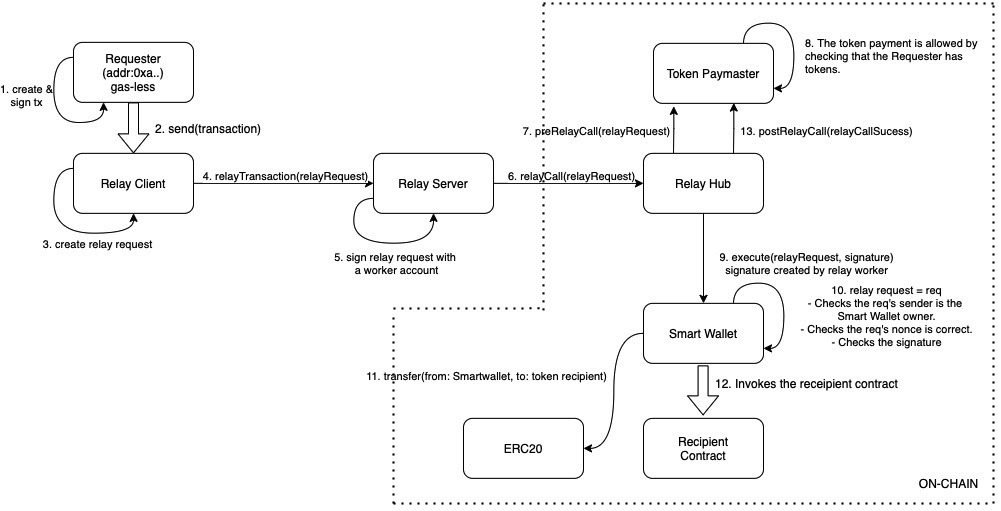
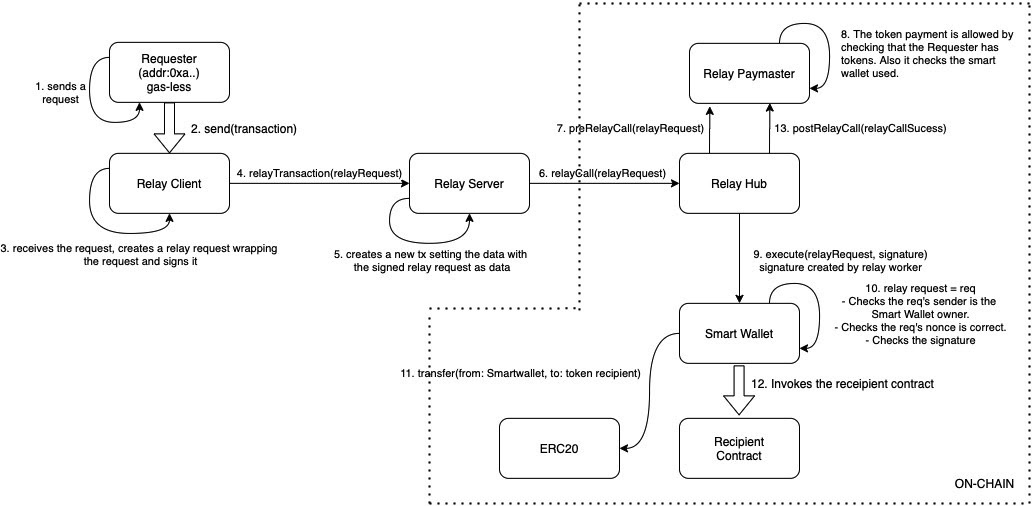
ch: applied suggestions to review

diff --git a/rif/enveloping.md b/rif/enveloping.md
@@ -1,6 +1,6 @@
 ---
 layout: rsk
-title: Enveloping
+title: RIF Enveloping
 tags: rif, enveloping, rsk, envelope, gas station network, gsn
 description: "RIF Enveloping provides the RSK ecosystem with the means to allow blockchain applications and end-users (wallet-apps) to transact without needing RBTC."
 ---
@@ -9,13 +9,9 @@ RIF Enveloping provides the RSK ecosystem with the means to allow blockchain app
 
 ## Goals
 
-Most blockchains have native tokens to pay for transaction fees. This simple design has many benefits. First, to bootstrap an economy, the native token model creates an initial demand for a new token. Second, it simplifies the interaction between users and miners because it forces them to use the same means of payment. Third, it reduces the complexity of the consensus rules. Finally, it provides Denial of Service (DoS) protection to the network as full nodes can pay what the miners expect to include a received transaction. This way nodes can decide to propagate a transaction or not, preventing the free consumption of network bandwidth, and stop spam transactions.
+Most blockchains have native tokens to pay for transaction fees. This simple design has many benefits. First, to bootstrap an economy, the native token model creates an initial demand for a new token. Second, it simplifies the interaction between users and miners because it forces them to use the same means of payment. Third, it reduces the complexity of the consensus rules. Finally, it provides Denial of Service (DoS) protection to the network as full nodes can pay what the miners expect to include a received transaction. This way nodes can decide to propagate a transaction or not, preventing the free consumption of network bandwidth, and stop spam transactions. But with the advent of Decentralized Finance (DeFi), several stablecoins have become a preferred means of payment and savings for both users and miners, therefore, separate systems to facilitate alternative payment mechanisms. Transactions that enable paying transactions with any coin other than the native currency are named meta-transactions because in some systems the user transaction is embedded in a higher-level (or meta) transaction created by a third party. A more figurable term for these transactions is “envelopes” or, for the whole system, an Enveloping system. A meta-transaction/enveloping system can serve at least two different use cases: 1) pay the transaction fees with tokens, where one new party receives the tokens (from the user) and pays the gas on behalf of the user, and 2) enable smart contract developers to subsidize the gas used to interact with their contracts. 
 
-With the advent of Decentralized Finance (DeFi), several stablecoins have become a preferred means of payment and savings for both users and miners, therefore, separate systems to facilitate alternative payment mechanisms. Transactions that enable paying transactions with any coin other than the native currency are named meta-transactions because in some systems the user transaction is embedded in a higher-level (or meta) transaction created by a third party.
-
-A more approachable term for these transactions is “envelopes” or, for the whole system, an Enveloping system. A meta-transaction/enveloping system can serve at least two different use cases: 1) pay the transaction fees with tokens, where one new party receives the tokens (from the user) and pays the gas on behalf of the user, and 2) enable smart contract developers to subsidize the gas used to interact with their contracts. 
-
-The main goal of the RIF Enveloping Project is to provide the RSK ecosystem with the means to allow blockchain applications and end-users (wallet-apps) to transact without needing RBTC. The system should allow RSK users to pay transaction fees with methods of payment (i.e., tokens) other than RBTC while maintaining their accounts as transaction senders. 
+The main goal of the RIF Enveloping Project is to provide the RSK ecosystem with the means to allow blockchain applications and end-users (wallet-apps) to transact without needing RBTC. The system should allow RSK users to pay transaction fees with methods of payment (i.e., tokens) other than RBTC while maintaining their accounts as transaction senders.
 
 The first iteration of RIF Enveloping was based on the great work done by the Gas Station Network team: [Gas Station Network](https://www.opengsn.org/).
 
@@ -25,114 +21,128 @@ The first iteration of RIF Enveloping was based on the great work done by the Ga
 2. Sponsored Transaction: A transaction sent by the requester (see below) through the Sponsor, this type of transaction aims to separate the gas payer from the sender of the transaction.
 3. Requester: It’s an EOA. The requester sends a sponsored transaction to the Sponsor. She does not pay the gas with native-currency but with a token accepted by the Sponsor, if they don’t subsidize it.
 4. Recipient: An abbreviation for recipient contract. It’s the destination of the requester’s transaction.
+5. Envelope: Using the “envelopes” analogy, it’s the transaction, (funded with native cryptocurrency as gas) sent by the Sponsor to the blockchain, that wraps the requester’s transaction payload (sponsored transaction).
+6. Enveloping: The entire system which allows the relay of sponsored transactions.
+7. DoS: A Denial of Service is an information-security threat whose goal is to become a service unavailable.
+8. DeFi: An acronym for Decentralized Finance, it’s a novel form for finance based in blockchain technology.
+9. EOA: An External Owned Account (EOA) is an account managed with a key, which is capable of signing and sending transactions, and paying the cost for it.
 
 ## Index of Contracts and Components
 
 - **Relay Provider** - The access point to the Enveloping system for dApps using Web3. It wraps the RelayClient to provide Web3 compatibility.
-- **Relay Client** - The access point to the Enveloping system. It Creates, signs, and sends the Enveloping Request, which is signed by the requester and forwarded to the Relay Server via the HTTP protocol.
-- **Relay Server** - The Relay Server receives the Enveloping Request via HTTP from the Relay Client. The server has only one Relay Manager address and only one Relay Worker and points to just one Relay Hub. When the Relay Server receives a request, it signs the sponsored transaction using its Relay Worker address and then sends it to the Relay Hub contract.
+- **Relay Client** - The access point to the Enveloping system. It creates, signs, and sends the Sponsored transaction, which is signed by the requester and forwarded to the Relay Server via the HTTP protocol.
+- **Relay Server** - The Relay Server receives the sponsored transaction via HTTP from the Relay Client.
+The server has only one Relay Manager address and only one Relay Worker and points to just one Relay Hub. 
+When the Relay Server receives an http “relay” request, it creates an Envelope, wrapping the sponsored transaction, signs it using its Relay Worker address and then sends it to the Relay Hub contract.
 - **Contract Interactor** - A provider and wrapper for all the smart contract ABIs.
 - **Relay Manager** - An on-chain account that has staked balance. It delegates the requests to Relay Workers, which are the actual initiators of the relay flow. Any penalization done against a Relay Worker impacts the Relay Manager's stake. A Relay Worker can be managed by only one Relay Manager. A Relay Manager can have one or more Relay Workers. The responsibilities of the Relay Manager are: register the Relay Server and add relay workers, both in the Relay Hub.
-- **Relay Worker** - An account address that belongs to only one Relay Manager. It’s the sender of the Relay Request.
-- **Enveloping Request** - The structure used to relay a transaction. It is formed by Relay Data and Forward Request.
+- **Relay Worker** - An EOA that belongs to only one Relay Manager. It’s the sender of the Relay Request.
+- **Enveloping Request** - It’s the Sponsored Transaction, the structure used to relay a transaction. It is formed by Relay Data and Forward Request.
+	
     - **Relay Data** - All information required to relay the defined Forward Request. 
-    - **Forward Request** - It is formed by all the "common" transaction fields in addition to all the token payment data and the Proxy Factory address as well.
-- **Proxy Factory**  - Factory of Proxies to the SmartWallet logic. The Smart Wallet itself is a Template with portions delegated to an optional custom logic (which is also a proxy pattern).
-- **Proxy** - A simple proxy that delegates every call to a SmartWallet logic address. This proxy is the one instantiated per smart wallet, and it will receive the Smart Wallet template address as Master Copy (MC). So every call made to this proxy will end up executing the logic defined in the MC. 
-    - For the transaction execution (`execute()` call), MC logic will do the signature verification and payment. Then it will execute the request, and, if custom logic was defined, it will forward the flow to it before returning.
-- **Smart Wallet** - It’s the “contract-based account” owned by the Requester, the one that calls the Recipient contract (i.e., the `msg.sender` address the Recipient will see). During the execution,  the contract verifies the Enveloping Request and, if it’s valid, it calls the defined Recipient’s function, otherwise it reverts the invocation. The verification includes checking that the owner of the Smart Wallet made the request, rejecting any request with an invalid signature, and preventing replay attacks using a nonce. Finally, it invokes the recipient contract's function.
+    - **Forward Request** - It is formed by all the "common" transaction fields in addition to all the token-payment data and the Proxy Factory address as well. 
+When the Sponsor creates an Envelope (the actual blockchain transaction to submit), it will add this Enveloping Request (sponsored transaction) as part of the encoded data, along with the contract and method to call (RelayHub and relayCall respectively)
+.
+- **Proxy Factory**  - Factory of Proxies to the SmartWallet logic. The Smart Wallet itself is a template with portions delegated to an optional custom logic (which is also a proxy pattern).
+- **Proxy** - A simple proxy that delegates every call to a SmartWallet logic address. This proxy is the one instantiated per SmartWallet, and it will receive the SmartWallet template address as Master Copy (MC). So every call made to this proxy will end up executing the logic defined in the MC.
+For the transaction execution (`execute()` call), MC logic will do the signature verification and payment. Then it will execute the request, and, if custom logic was defined, it will forward the flow to it before returning. 
+- **Smart Wallet** - It’s the “contract-based account” owned by the Requester’s EOA.
+It is the one that calls the Recipient contract (i.e, the `msg.sender` address the Recipient will see). During the execution,  the contract verifies the Enveloping Request and, if it’s valid, it calls the defined Recipient’s function, otherwise it reverts the invocation. The verification includes checking that the owner of the SmartWallet made the request, rejecting any request with an invalid signature, and preventing replay attacks using a nonce.
 
-Moreover, the Smart Wallet allows adding, only during deployment, custom logic for the next functions: initialization, execution, and fallback.
+Moreover, when a proxy to the Smart Wallet is created, it can define a custom logic that replaces what is done with the Enveloping Request after verifying it. With no custom logic, the recipient is called, but with custom logic, the request is delegated to the logic code.
+If a custom logic is set, it can be initialized (which would impact the proxy’s state of course). This happens automatically during the deployment of the Proxy if the code of the logic contract has defined a function that conforms to the initialize(bytes) ABI.
 
 **There are two ways of creating a Smart Wallet:**
 
-1. **Regular transaction**: The Requester (or another account on behalf of the Requester) calls the Proxy Factory asking to get a new Smart Wallet. Therefore the Proxy Factory creates one delegating the ownership to the Requester.
-2. **Sponsored**: It needs to go through the Enveloping process, which is described in detail below. The requester asks a third party to pay for the Smart Wallet deployment, and the requester pays in tokens for that (or free if it is subsidized by the third-party, a.k.a, Sponsor).
+1. **Regular transaction:** The Requester (or another account on behalf of the Requester) calls the Proxy Factory asking to get a new Smart Wallet. Therefore the Proxy Factory creates a proxy to the SmartWallet code, delegating the ownership to the Requester.
+2. **Sponsored:** It needs to go through the Enveloping process, which is described in detail below. The requester asks a third party to pay for the Smart Wallet deployment, and the requester pays in tokens for that (or free if it is subsidized by the third-party, a.k.a, Sponsor).
 
-- **GSNEip712Library** - This is an auxiliary library that bridges the Relay Request into a call of a Smart Wallet or Proxy Factory (in such case, the Request is a Deploy Request)
-- **Paymaster** - The Paymaster is an abstract contract that authorizes a specific relay request. It has two hook methods, one to authorize the request and perform all the logic before executing the request (preRelayedCall), and another one to do logic after the execution (postRelayedCall). 
-    - **Relay Paymaster** - Maintains a list of tokens that it accepts. When it receives a relay request, checks the token’s acceptance and the payer’s balance for the token.
-    - **Deploy Paymaster** - An implementation used in the Smart Wallet deployment process. It performs the same Token Paymaster’s checks but also, it makes sure that the Smart Wallet to be deployed doesn’t already exist and that a Proxy Factory address is provided in the Relay Request.
-- **Relay Hub** - The Relay Hub is the most central component of Enveloping architecture. It acts as an interface with the Relay Server and the whole on-chain architecture. It receives the Relay Request and forwards it to the Smart Wallet. Also, the Relay Hub forms part of the relay worker’s registration process together with the Relay Managers. Furthermore, the Relay Hub keeps the balances staked by the Relay Workers and Paymasters.
-- **Stake Manager** - The Stake Manager supports multiple Relay Hubs, the stakers are the Relay Managers and they can authorize/deauthorize specific Relay Hubs so they can penalize the managers if needed.
 
-Deauthorizing a Relay Hub means unstaking it, which also means not being able to relay through that hub anymore. Unstaking has a predefined delay (in blocks). This is intended to prevent the Relay Manager from unstaking before a slashing that was going to occur.
+- **GSNEip712Library** - This is an auxiliary library that bridges the Relay Request into a call of a Smart Wallet or Proxy Factory (in such case, the Request is a Deploy Request).
+- **Paymaster** - The Paymaster is an abstract contract that authorizes a specific relay request, it is the one paying the RelayWorker with native cryptocurrency so, in the specific implementation to be used/implemented, it would be beneficial to check that the payment in tokens is destined to the paymaster itself or an account the paymaster accepts as a valid recipient. 
+The abstract contract has two hook methods, one to authorize the request and perform all the logic before executing the request (preRelayedCall), and another one to do logic after the execution (postRelayedCall). 
+Two example implementations are provided:
+    - **Relay Paymaster** - The Relay Paymaster has a list of tokens that it accepts. When it receives a relay request, checks the token’s acceptance and the payer’s balance for the token.
+    - **Deploy Paymaster** - An implementation used in the SmartWallet deployment process. It performs the same Token Paymaster’s checks but also, it makes sure that the SmartWallet to be deployed doesn’t already exist and that a Proxy Factory address is provided in the Relay Request and it is the factory instance accepted by the paymaster.
+- **Relay Hub** - The Relay Hub is the main on-chain component of the Enveloping architecture. It acts as an interface with the Relay Server and the whole on-chain architecture. It receives the Relay Request and forwards it to the Smart Wallet. Also, the Relay Hub forms part of the relay worker’s registration process together with the Relay Managers. Furthermore, the Relay Hub keeps the balances the Paymasters will use to pay the relay workers for their transaction submission. A Paymaster without enough balance in the Relay Hub to pay for the relay of a transaction will cause the relay call to revert.
+- **Stake Manager** - The Stake Manager supports multiple Relay Hubs, the stakers are the Relay Managers and they can authorize/deauthorize specific Relay Hubs so they can penalize the managers if needed. The staked cryptocurrency is held in the StakeManager contract.
+The account staking for a specific Relay Manager for the first time becomes the owner of the stake, only this account can make subsequent stakes for this specific RelayManager.
+    When a Relay Manager unauthorised a Relay Hub, it means it is unstaking from it, which also means not being able to relay through that hub anymore. Any balance held in the Relay Hub (as a consequence of being paid by a Paymaster) is sent to the original sender of the stake (the owner). Also, the workers’ balances are transferred to the stake owner, and, if configured, the Relay Manager’s balance can also be transferred to the stake owner.
+    Unstaking has a predefined delay (in blocks). This is intended to prevent the Relay Manager from unstaking before a slashing that was going to occur.
 
-**Execution flow (Smart Wallet created without custom logic)**
+**Execution flow (Smart Wallet already created)**
 
 ![Enveloping - Execution Flow](/assets/img/rif-enveloping/Execution-flow.jpg)
 
-1. A Requester creates a transaction and signs it.
-2. A Requester sends the transaction to the Relay Client (through Relay Provider).
-3. The Relay client creates a  Relay Request containing the Requester’s transaction.
+1. A Requester creates a request.
+2. A Requester sends the request to the Relay Client (through Relay Provider).
+3. The Relay client wraps the request into a  Relay Request and signs it.
 4. The Relay Client sends the Relay Request to the Relay Server (via HTTPClient-HTTPServer)
-5. The Relay Server signs the Relay Request with a Relay Worker account
+5. The Relay Server create a transaction including the Relay Request and signs it with a Relay Worker account
 6. The Relay Worker account is an EOA registered in the Relay Hub
-7. The Relay Server sends the request to the Relay Hub using the same worker account as the previous step, executing the relayCall function of the Relay Hub contract.
+7. The Relay Server sends the transaction to the Relay Hub using the same worker account as the previous step, executing the relayCall function of the Relay Hub contract.
   ```solidity
   function relayCall(
-         uint paymasterMaxAcceptanceBudget,
-         GsnTypes.RelayRequest calldata relayRequest,
-         bytes calldata signature,
-         bytes calldata approvalData,
-         uint externalGasLimit
-     )
+       uint paymasterMaxAcceptanceBudget,
+       GsnTypes.RelayRequest calldata relayRequest,
+       bytes calldata signature,
+       bytes calldata approvalData,
+       uint externalGasLimit
+   )
   ```
-  - The Relay Worker account has funds to pay the consumed gas (RBTC).
-  ```solidity
-  balances[relayRequest.relayData.paymaster] = balances[relayRequest.relayData.paymaster].sub(charge);
-         balances[workerToManager[msg.sender]] = balances[workerToManager[msg.sender]].add(charge);
-  ```
-  - This verification is done in the Relay Client and in the Relay Server as well. Then, it is done again in the Relay Hub (7).
-  - The Relay Manager account locks funds in the Relay Hub for staking (penalization).
-  - When the Relay Hub receives a transaction from a Relay Worker, it verifies that the manager’s Relay Worker has indeed locked funds for staking (using isStacked). If not, the execution is reverted.
-  - The Relay Hub takes the Token Paymaster address from the Relay Request and checks if it has enough funds locked in the Relay hub to cover the gas (RBTC) to be used by the Relay Call, if not the execution is reverted as well.
-8. The Relay Hub invokes the preRelayCall method in the Token Paymaster contract passing the received Relay Request and waits for the Token Paymaster to answer if it is possible to execute (true) or not (false).
-9. The Token Paymaster executes its preRelayCall method and must ensure that the Requester is able to pay. 
- - The Token Paymaster checks that it accepts the token used to pay and that the payer has sufficient token balance. If everything is okay, then the Paymaster returns true.
+    - When the Relay Hub receives a transaction from a Relay Worker, it verifies with the StakeManager that the Worker’s Relay Manager has indeed locked funds for staking (using isStacked). If not, the execution is reverted.
+    - The Relay Worker account must have funds to pay the consumed gas (RBTC). 
+        - This verification is done in the Relay Client and in the Relay Server as well. Then, it is done again in the Relay Hub.
+    - The Relay Hub takes the Relay Paymaster address from the Relay Request and checks if it has enough funds locked in the Relay Hub to cover the total maximum charge (RBTC) of the relay, if not the execution is reverted as well.
+
+8. The Relay Hub invokes the preRelayCall method in the Relay Paymaster contract passing the received Relay Request and waits for the Relay Paymaster to answer if it is possible to execute (true) or not (false).
+9. The Relay Paymaster executes its preRelayCall method and must ensure that the Requester is able to pay the tokens. 
+    - The Relay Paymaster checks that it accepts the token used to pay and that the payer has a sufficient token balance. In addition, it verifies the used smart wallet is the correct one. If everything is okay, then the Paymaster returns true.
 10. The RelayHub instructs the Smart Wallet to execute the Relay Request.
+
   ```solidity
-  (forwarderSuccess, vars.relayedCallSuccess,lastSuccTrx, vars.relayedCallReturnValue) = GsnEip712Library.execute(relayRequest, signature);
+    (forwarderSuccess, vars.relayedCallSuccess,lastSuccTrx, vars.relayedCallReturnValue) = GsnEip712Library.execute(relayRequest, signature);         
   ```
 11. The Smart Wallet checks the signature and the nonce of the Requester, reverting if it fails the checking.
-12. Then, the Smart Wallet performs the token transfer between the Requester and the relayer, using the data received within the Relay Request.
+12. Then, the Smart Wallet performs the token transfer between the Requester and the token recipient, using the data received within the Relay Request.
 13. It invokes the recipient contract with the indicated method in the Forward Request
-    - If the execution fails, the Smart wallet reverts.
 14. Finally, the Relay Hub calls the Paymaster (using the method postRelayCall).
+
   ```solidity
   vars.data = abi.encodeWithSelector(
-             IPaymaster.postRelayedCall.selector,
-             vars.recipientContext,
-             vars.relayedCallSuccess,
-             totalInitialGas - gasleft(), /*gasUseWithoutPost*/
-             relayRequest.relayData
-         );
+           IPaymaster.postRelayedCall.selector,
+           vars.recipientContext,
+           vars.relayedCallSuccess,
+           totalInitialGas - gasleft(), /*gasUseWithoutPost*/
+           relayRequest.relayData
+       );
   ```
 
 **The Smart Wallet with gasless EOA creation flow**
 
 ![Enveloping - Smart Wallet with Gasless EOA](/assets/img/rif-enveloping/SmartWalletWithGasless.jpg)
 
-The gas-less requester has an ERC20 address where they receive tokens but don't use them. If the requester needs to send the tokens to another account, they must deploy a Smart Wallet first.
+The gas-less requester has a SmartWallet address where they receive tokens but don't use them. If the requester needs to call a contract, e.g,  to send the tokens to another account, they must deploy a Smart Wallet first.
 
-1. A Requester creates a transaction and signs it.
-2. A Requester sends the transaction to the Relay Server through Relay Client.
-3. Relay Client wraps the transaction sent by the Requester in a Deploy Request to create the Smart Wallet.
+1. A Requester creates a deployWallet request.
+2. A Requester sends the request to the Relay Server through Relay Client.
+3. Relay Client wraps the transaction sent by the Requester in a Deploy Request to create the Smart Wallet and signs it.
 4. The Relay Client sends to the Relay Server a Deploy Request (via HTTPClient-HTTPServer)
-5. The Relay Server sign the Deploy Request with the Relay Worker account
-    - The Relay Worker account is an EOA registered in the Relay Hub
-6. The Relay Server sends the request to the Relay Hub using the Relay Worker account executing the relay call function of the Relay Hub contract. 
+5. The Relay Server signs the transaction containing the Deploy Request, with the Relay Worker account.
+6. The Relay Server sends the request to the Relay Hub using the Relay Worker account executing the relay call function of the Relay Hub contract. Following the same process from step 6. 
 7. The Relay Hub invokes the `preRelayCall` method in the Deploy Paymaster contract using the received Deploy Request as parameters.
 8. The Deploy Paymaster must ensure:
     - The Paymaster accepts the offered tokens.
+    - The Proxy Factory instance to use is known by the paymaster
     - The Proxy Factory contract isn’t creating an existing Smart Wallet.
     - The requester has enough tokens to pay.
 9. The Relay Hub calls the Proxy Factory using the method relayedUserSmartWalletCreation.
 10. The Proxy Factory performs the following checks:
     - Checks the sender’s nonce.			
     - Checks the Deploy Request signature
-11. The Proxy Factory using the `create2` opcode creates the Smart Wallet calling the `initialize` function in the Smart Wallet contract. 
-12. The Smart Wallet, before deployment, executes the token transfer.
-13. Then it initializes the Smart Wallet logic and sets the requester as the owner of the Smart Wallet 
-    - In the case there is a custom logic for initialization is called as well.	
-14. The Relay Hub executes `postRelayCall` in the Paymaster.
+11. The Proxy Factory using the `create2` opcode creates the Smart Wallet. 
+12. Then it calls the `initialize` function in the Smart Wallet contract. 
+    - The Smart Wallet, during its initialization, executes the token transfer.
+    - Then it initializes the Smart Wallet state and sets the requester’s EOA as the owner of the Smart Wallet 
+    - In the case there is a custom logic,  its initialization is called as well.	
+13. The Relay Hub executes `postRelayCall` in the Paymaster.
